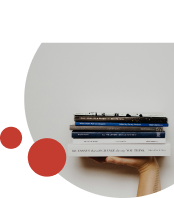
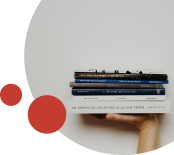
newSubjects

diff --git a/src/components/sixthform/sixthformChoices/themes/SixthformChoicesMobile.scss b/src/components/sixthform/sixthformChoices/themes/SixthformChoicesMobile.scss
@@ -760,7 +760,7 @@
       border-radius: 3.8vw;
       display: flex;
       background: white;
-      overflow:hidden;
+      overflow: hidden;
 
       .center-column {
         text-align: center;
@@ -780,11 +780,13 @@
       }
     }
   }
+
   .question-popup {
     svg {
       width: 9vw;
       height: 9vw;
     }
+
     width: 90vw !important;
     border-radius: 3vw;
   }
@@ -792,7 +794,7 @@
   .question-text-t4 {
     margin-left: 4vw;
 
-    > div {
+    >div {
       padding-left: 3vw;
       border-radius: 2vw;
       max-width: 92vw;
@@ -800,14 +802,127 @@
   }
 
   .question-subject-welcome {
+    .step2background-img {
+      top: -9vw;
+    }
+
     .text-container-5432 {
       left: 4vw;
       text-align: center;
       height: 100vw;
 
-      > div {
+      >div {
         width: 92vw;
       }
     }
+  }
+
+  .question-new-subjects {
+    .third-step-img {
+      top: -10vw;
+    }
+
+    .question-step-3c1 {
+      height: 100%;
+    }
+
+    .top-part {
+      padding-left: 4vw;
+      height: 15%;
+
+      .question-text-3 {
+        margin-top: 0;
+        margin-bottom: 0;
+      }
+
+      .color-light-blue {
+        margin-top: 2vh;
+      }
+    }
+
+    .height-4 {
+      height: 8%;
+    }
+
+    .animating-left {
+      width: 93vw !important;
+    }
+
+    .progress-bar-sixthform {
+      width: 100% !important;
+
+      .line-r23 {
+        border-radius: 1vw;
+        height: 1vw;
+        width: 20.3vw;
+      }
+    }
+
+    .progress-description-container-r3234 {
+      margin-left: 4vw;
+      width: 92vw !important;
+    }
+
+    .progress-content-box-r323 {
+      width: 96%;
+    }
+
+    .containers-3c1 {
+      padding-left: 4vw !important;
+      width: 96vw;
+      border-radius: 4vw;
+
+      svg {
+        width: 5vw !important;
+        height: 5vw !important;
+      }
+
+      font-size: 4vw !important;
+    }
+
+    .container-3c1 {
+      border-radius: 4vw;
+
+      svg {
+        width: 5vw !important;
+        height: 5vw !important;
+      }
+
+      font-size: 4vw !important;
+    }
+  }
+}
+
+.progress-description-container-r3234 {
+  .progress-bar-sixthform {
+    .line-r23 {
+      border-radius: 1.5vw;
+      height: 2vw;
+      width: 18.8vw;
+    }
+  }
+
+  .title-6v2 {
+    br {
+      display: none;
+    }
+  }
+
+  .progress-content-box-r323 {
+    width: 100vw;
+
+    .animating-left {
+      width: 80vw;
+
+      .title-6v2 {
+        width: 80vw;
+
+        br {
+          display: none;
+        }
+      }
+    }
+
+    animation: fade-in 0.3s forwards;
   }
 }
